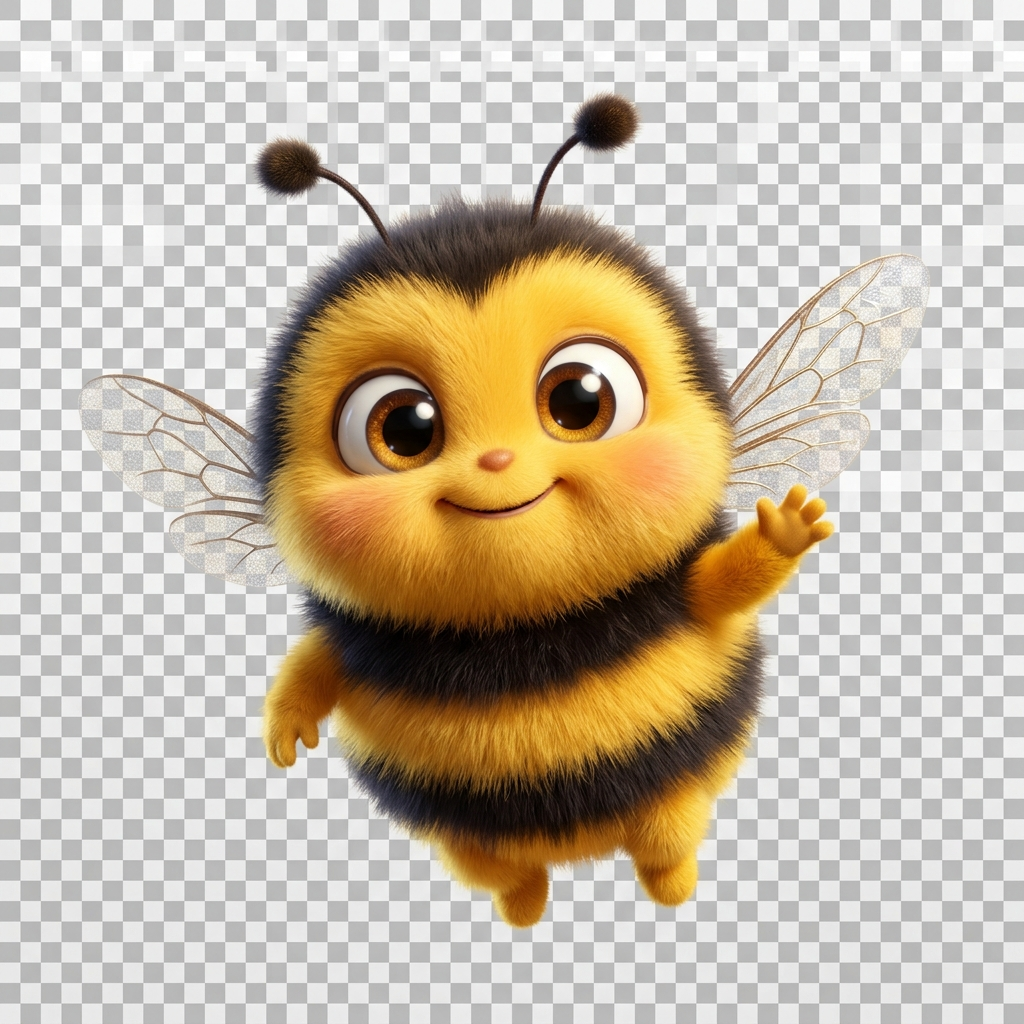
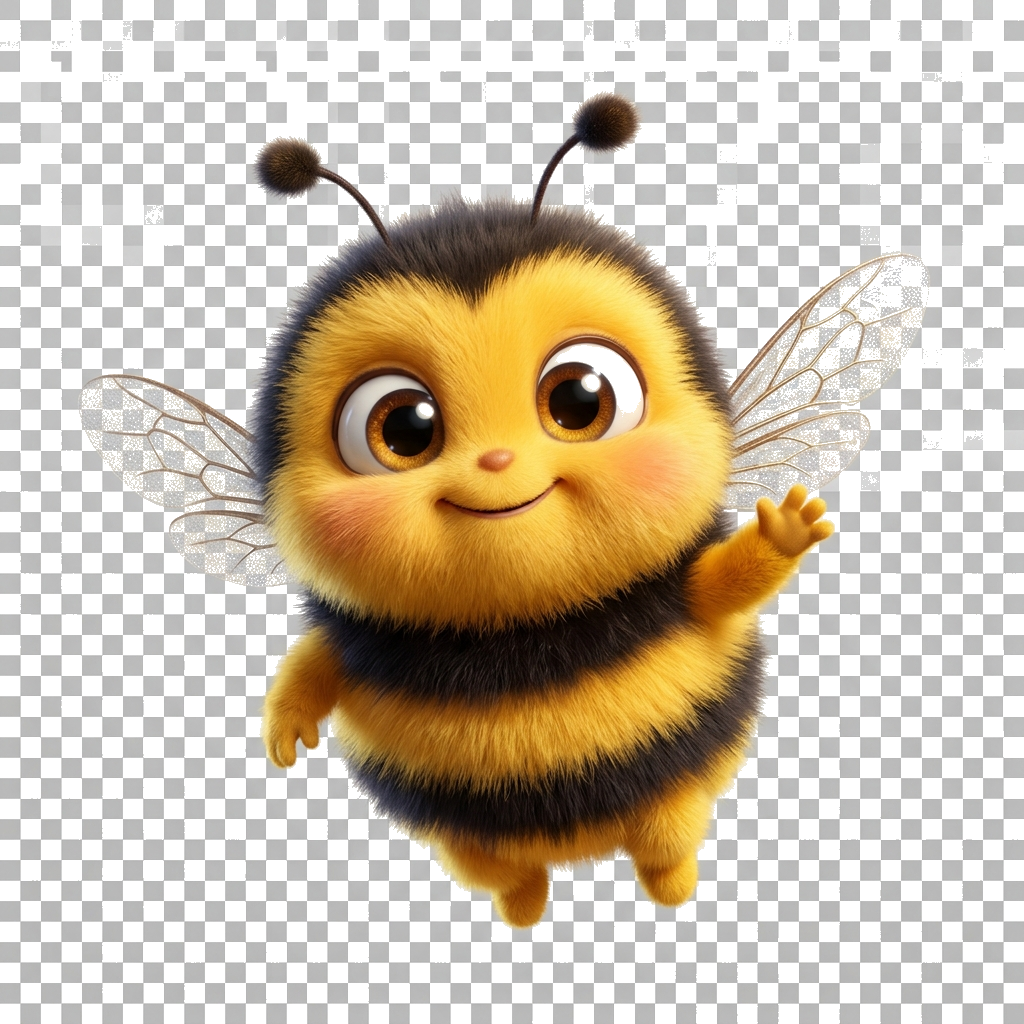
fix(ui): remove white box background from bee mascot PNG and apply custom native dropdown styling to select elements for ultra-premium look

diff --git a/index.html b/index.html
@@ -202,10 +202,10 @@
         <!-- Second Brain AI Spacious Aqua Hero View -->
         <div id="chat-hero-view" class="chat-hero-view gemini-hero-center" style="display: flex; flex-direction: column; justify-content: center; align-items: center; text-align: center; padding: 24px 20px; margin: auto; max-width: 760px; flex: 1; width: 100%; box-sizing: border-box; gap: 16px;">
           
-          <!-- Clean Luminous High-Contrast Headline with Cute Bee Mascot -->
-          <div style="display: flex; flex-direction: column; gap: 10px; align-items: center; position: relative;">
+          <!-- Clean Luminous High-Contrast Headline with Transparent Cute Bee Mascot -->
+          <div style="display: flex; flex-direction: column; gap: 12px; align-items: center; position: relative;">
             
-            <!-- Cute Floating Bee Mascot Companion -->
+            <!-- Cute Floating 3D Bee Mascot Companion -->
             <div class="cute-bee-mascot-wrapper" onclick="window.triggerBeeGreeting()" title="Click me! Bzzzt 🐝">
               <img src="assets/cute_bee_mascot.png" alt="Cute Bee Mascot" class="cute-bee-img">
               <div id="bee-speech-bubble" class="cute-bee-speech-bubble" style="display: none;">
@@ -213,8 +213,8 @@
               </div>
             </div>
 
-            <h1 class="gemini-hero-title" style="font-size: 36px; font-weight: 800; color: #ffffff !important; -webkit-text-fill-color: #ffffff !important; text-shadow: 0 2px 20px rgba(56, 189, 248, 0.7), 0 0 45px rgba(0, 242, 254, 0.5); margin: 0; font-family: 'Outfit', sans-serif; letter-spacing: -0.5px;">
-              What's on your mind today, Ankita? 🐝
+            <h1 class="gemini-hero-title" style="font-size: 36px; font-weight: 800; color: #ffffff !important; -webkit-text-fill-color: #ffffff !important; text-shadow: 0 2px 22px rgba(56, 189, 248, 0.7), 0 0 45px rgba(0, 242, 254, 0.5); margin: 0; font-family: 'Outfit', sans-serif; letter-spacing: -0.5px;">
+              What's on your mind today, Ankita?
             </h1>
             <p style="font-size: 15px; color: #7dd3fc !important; margin: 0; font-family: 'Inter', sans-serif; font-weight: 600; text-shadow: 0 1px 10px rgba(0, 0, 0, 0.9);">
               Second Brain AI • Aqua Intelligence &amp; Local RAG
@@ -276,11 +276,11 @@
               <!-- Right Tools: Model Picker + Voice Mic + Send -->
               <div style="display: flex; align-items: center; gap: 8px;">
                 <!-- Model Selector Dropdown Pill -->
-                <div class="gemini-model-selector-pill" style="display: flex; align-items: center; gap: 4px; background: rgba(255, 255, 255, 0.06); border: 1px solid rgba(255, 255, 255, 0.12); padding: 4px 10px; border-radius: 16px; cursor: pointer;">
-                  <select id="model-select-dropdown" class="model-select-dropdown" onchange="window.handleModelChange(this.value)" style="background: transparent; border: none; color: #cbd5e1; font-size: 12.5px; font-weight: 600; cursor: pointer; outline: none; font-family: inherit;">
-                    <option value="gemini-2.5-flash" selected>Second Brain Flash ⚡ ∨</option>
-                    <option value="gemini-2.5-pro">Second Brain Pro 2.5 🧠 ∨</option>
-                    <option value="gemini-2.0-flash">Deep Think Engine 🚀 ∨</option>
+                <div class="gemini-model-selector-pill" style="display: flex; align-items: center; gap: 4px; background: rgba(9, 27, 46, 0.95); border: 1.5px solid rgba(6, 182, 212, 0.4); padding: 4px 12px; border-radius: 18px; cursor: pointer;">
+                  <select id="model-select-dropdown" class="model-select-dropdown" onchange="window.handleModelChange(this.value)" style="background: transparent; border: none; color: #ecfeff; font-size: 12.5px; font-weight: 700; cursor: pointer; outline: none; font-family: inherit;">
+                    <option value="aqua-aesthetic" selected>Second Brain Aqua ⚡</option>
+                    <option value="gemini-2.5-pro">Second Brain Pro 2.5 🧠</option>
+                    <option value="gemini-2.0-flash">Deep Think Engine 🚀</option>
                   </select>
                 </div>
 

diff --git a/css/style.css b/css/style.css
@@ -6517,13 +6517,50 @@ body[data-theme="gemini-dark"] .chat-action-btn {
 }
 
 .cute-bee-img {
-  width: 72px;
-  height: 72px;
+  width: 88px;
+  height: 88px;
   object-fit: contain;
   animation: beeFloat 3.2s ease-in-out infinite;
-  filter: drop-shadow(0 8px 18px rgba(0, 242, 254, 0.45));
+  filter: drop-shadow(0 10px 22px rgba(0, 242, 254, 0.5));
   user-select: none;
   -webkit-user-drag: none;
+}
+
+/* Premium Model Select Dropdown & Options */
+.model-select-dropdown {
+  -webkit-appearance: none !important;
+  -moz-appearance: none !important;
+  appearance: none !important;
+  background: transparent !important;
+  border: none !important;
+  color: #ecfeff !important;
+  font-size: 13px !important;
+  font-weight: 700 !important;
+  cursor: pointer;
+  outline: none !important;
+  font-family: 'Outfit', sans-serif;
+}
+
+.model-select-dropdown option {
+  background: #040d1a !important;
+  color: #ecfeff !important;
+  padding: 10px !important;
+  font-weight: 600 !important;
+}
+
+.gemini-model-selector-pill {
+  background: rgba(9, 27, 46, 0.95) !important;
+  border: 1.5px solid rgba(6, 182, 212, 0.45) !important;
+  border-radius: 20px !important;
+  padding: 6px 14px !important;
+  backdrop-filter: blur(14px) !important;
+  box-shadow: 0 4px 20px rgba(0, 0, 0, 0.6), 0 0 14px rgba(6, 182, 212, 0.25) !important;
+  transition: all 0.2s ease !important;
+}
+
+.gemini-model-selector-pill:hover {
+  border-color: #00f2fe !important;
+  box-shadow: 0 4px 25px rgba(0, 242, 254, 0.4) !important;
 }
 
 .cute-bee-speech-bubble {
